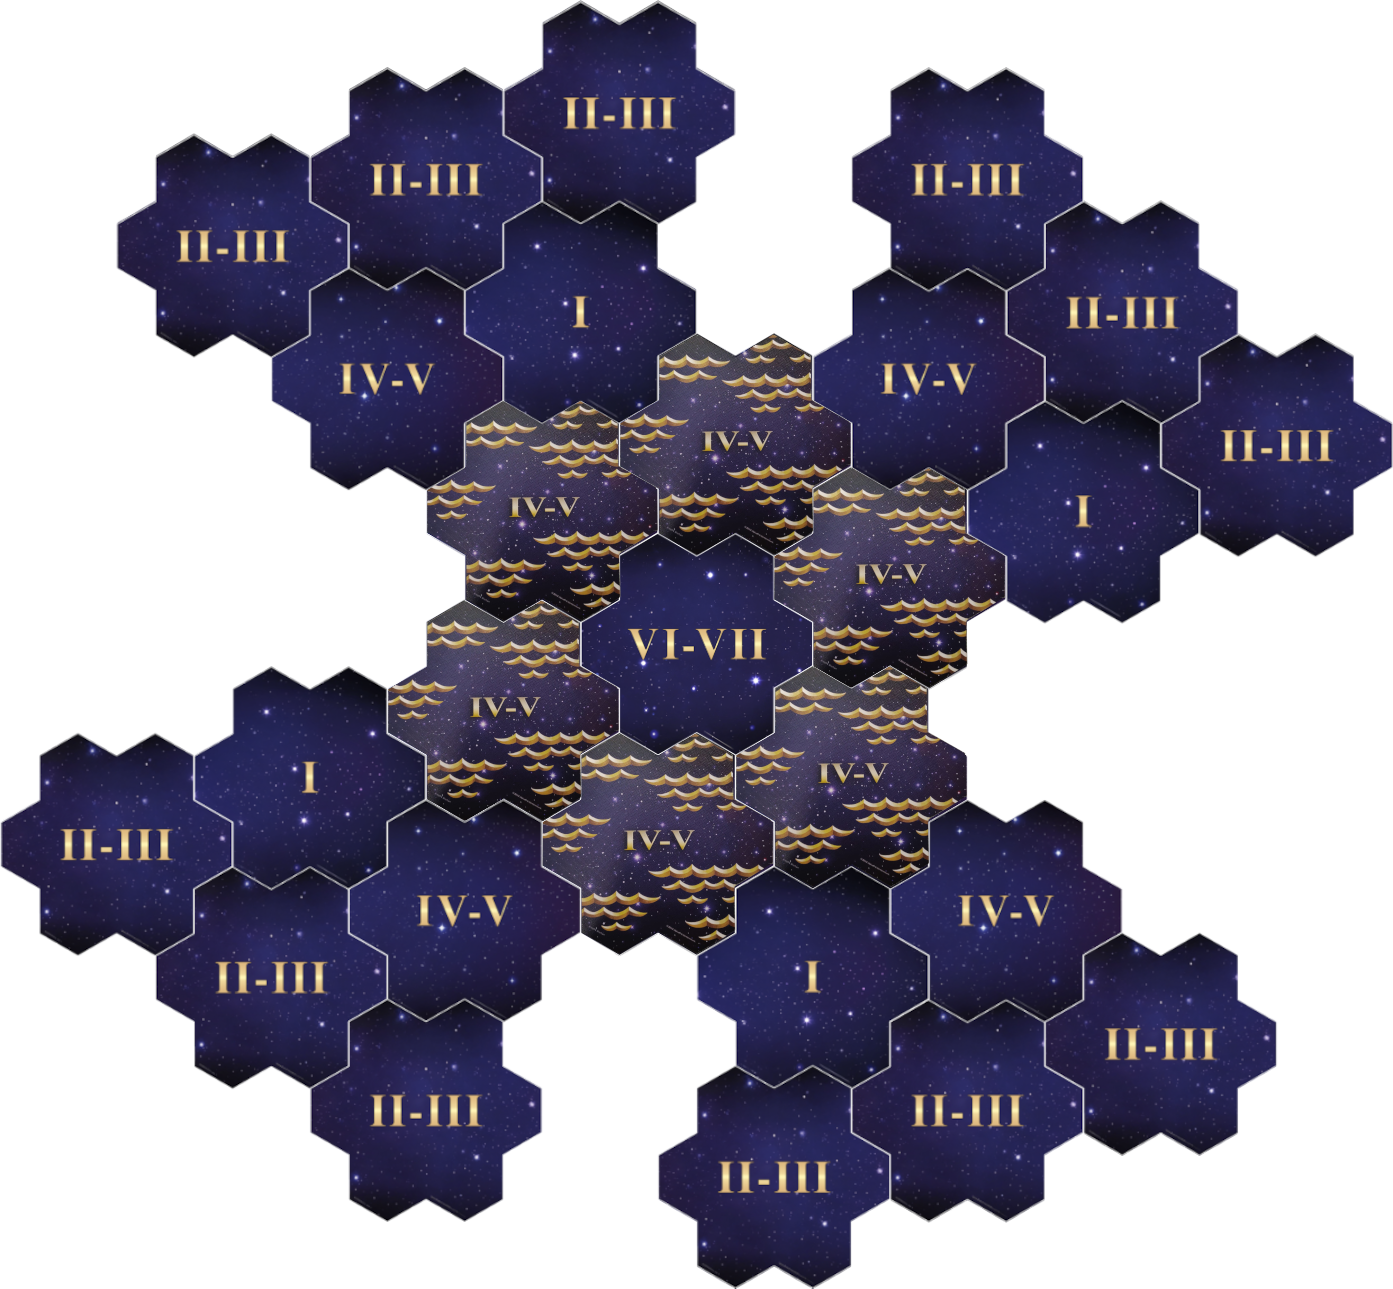
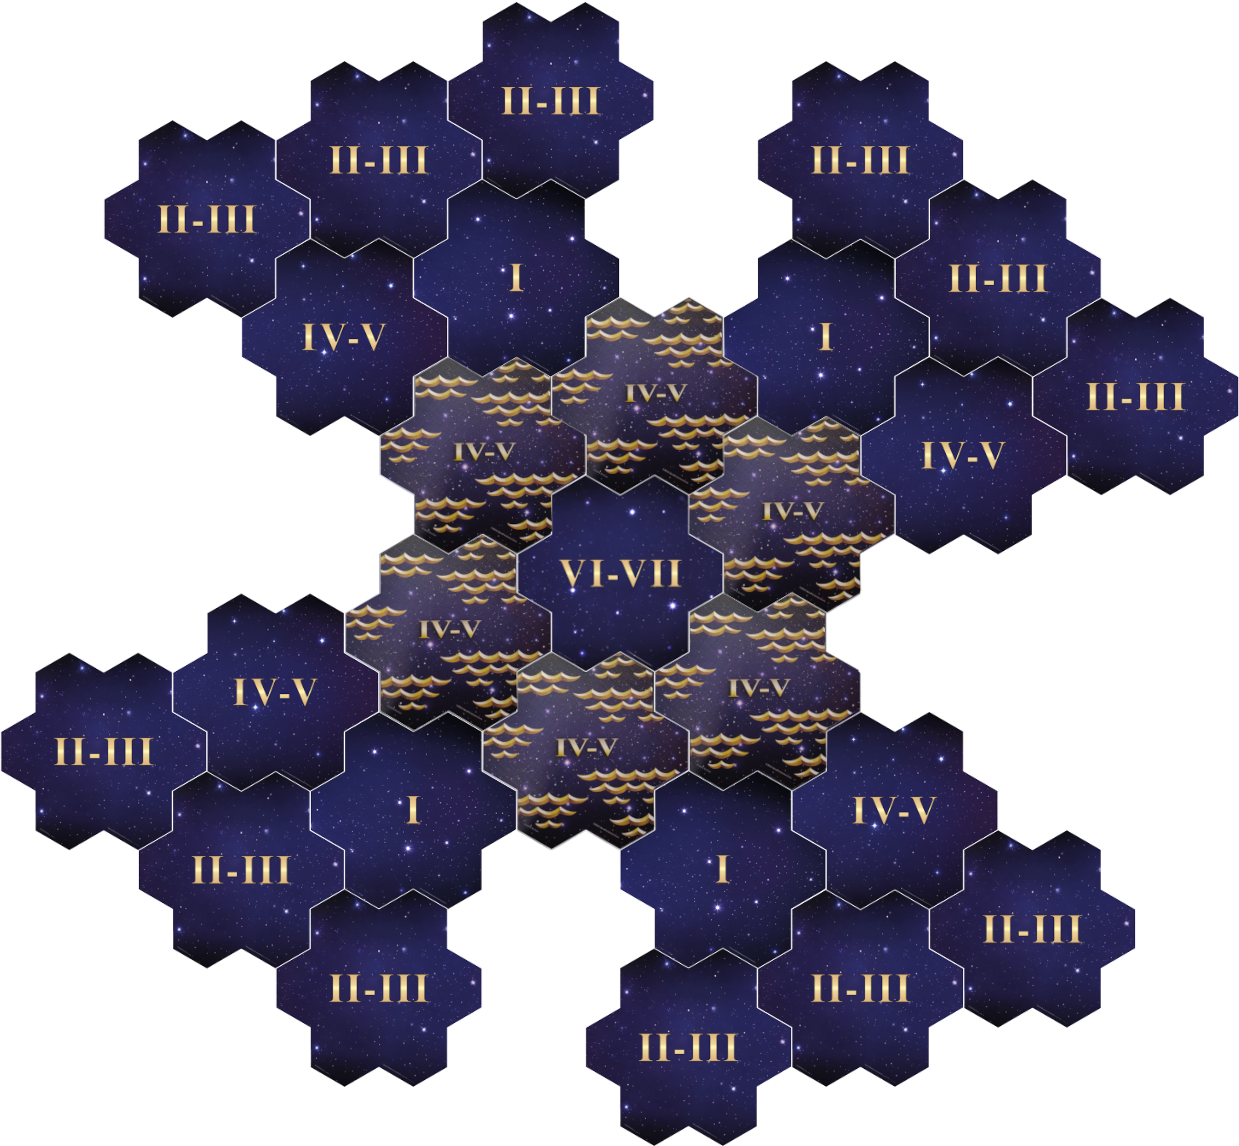
minor fixes

diff --git a/draft-scenarios/clash/rise_from_exile.tex b/draft-scenarios/clash/rise_from_exile.tex
@@ -41,15 +41,10 @@ Take the following Map Tiles and arrange them as shown in the Scenario map layou
 \end{itemize}
 
 \subsection*{\MakeUppercase{Victory Condition}}
-The game ends at the end of the Round when any of the following conditions are met:
-\begin{itemize}
-  \item \textbf{4 players:} One player has defeated every opponent's Main Hero at least once. \textit{That player wins the game immediately.}
-    \item At the end of Round 10.
-\end{itemize}
+Score the most Victory Points (VPs) by the end of the \nth{10} Round. In case of a tie, draw Cards to your \svg{hand} Limit and engage in a final Combat -- the winner is the victor.
 
 \subsection*{\MakeUppercase{Victory Points}}
-If no player has achieved an immediate victory,
-the player with the most Victory Points (VP) wins.
+The player with the most Victory Points (VPs) wins.
 \begin{itemize}
   \item 4 VPs for the first player to flag the Center VII Field.
   \item 2 VPs for each enemy Main Hero defeated.
@@ -64,7 +59,7 @@ the player with the most Victory Points (VP) wins.
 \textbf{\nth{3} Round:}
 \begin{itemize}
   \item Build either \svg{building_special_tent} or \svg{building_special_gears} Building in all uncaptured Starting Towns for free, ignoring any
-prerequisite buildings, and add a ``few'' \svg{bronze} Units to the guards. Prerequisite buildings are not granted and must be built
+prerequisite buildings, and add a ``Few'' \svg{bronze} Units to the guards. Prerequisite buildings are not granted and must be built
 separately to use their effects.
 \end{itemize}
 \textbf{\nth{4} Round:}
@@ -83,7 +78,7 @@ separately to use their effects.
   \item All players start with only their Secondary Hero on an empty Field on a Far Map Tile marked \textbf{``S''} that contains a Settlement.
   \item Until their Starting Town has been captured, Secondary Heroes may gain rewards from each \textbf{Visitable} Field \textbf{twice}.
   \item Once per Round, Secondary Heroes may discover a Map Tile for 0 \svg{movement}.
-  \item Your M\&M Deck acts as your Secondary Hero's Hand.  Do mot draw Cards  at the beginning of your turn. After capturing your Starting Town, use the M\&M Deck normally with your Main Hero.
+  \item Your M\&M Deck acts as your Secondary Hero's Hand.  Do not draw Cards at the beginning of your turn. After capturing your Starting Town, use the M\&M Deck normally with your Main Hero.
   \item After winning a Neutral Combat with your Secondary Hero, you may recruit one of the defeated Neutral Units by paying its recruitment cost.
   \item Players may not use/build Buildings or recruit Units from their Starting Town until they capture it.
   \item Extending Starting Town Combat costs 0 \svg{movement}.
@@ -93,15 +88,15 @@ separately to use their effects.
   \item \textbf{Starting Towns} are guarded by:
   \begin{itemize}
     \item 2 × A ``Pack'' of the cheapest \svg{bronze} Units
-    \item A ``few'' of the most expensive \svg{silver} Units
+    \item A ``Few'' of the most expensive \svg{silver} Units
   \end{itemize}
   \item If a player loses Combat against their Starting Town, any defeated guards do not return.
   \item After capturing the Starting Town:
   \begin{itemize}
-    \item Gain Main Hero. Gain Levels equal to the Round number \textit{(max 4)} and draw Cards to your \svg{hand} Limit.
+    \item Gain your Main Hero. Gain Levels equal to the Round number \textit{(max 4)} and draw Cards to your \svg{hand} Limit.
     \item Gain 10 \svg{gold}, 2 \svg{building_materials}, and 1 \svg{valuables}.
     \item Gain 2 × A ``Pack'' of the cheapest \svg{bronze} Units.
-    \item Place 1 Stack Token on one \svg{bronze} Unit.
+    \item Place 1 Stack Token on any \svg{bronze} Unit.
   \end{itemize}
   \item \textbf{Obelisk:} Gain an Empowered Ability Token \textit{or} Search (5) \svg{artifact}.
   \item \textbf{Sanctuary:} Choose 1 \svg{spellpower} from your Discard Pile. Remove it or return it to your hand.
@@ -149,7 +144,7 @@ Choose one Faction option. Then, you may add any Optional Rules.
 \begin{itemize}
   \item Each player chooses any starting Hero from any Faction. Starting Towns remain random.
   \item After capturing their Starting Town, each player chooses their Main Hero from that Town's Faction.
-  \item Add the Cards gained by your Secondary Hero to your Main Hero's Deck. You may add your starting Hero's Starting Ability Card, Specialty Card or both to your Main Hero's Deck.
+  \item Add the Cards gained by your Secondary Hero to your Main Hero's Deck. You may add your starting Hero's Starting Ability Card, Specialty Card, or both to your Main Hero's Deck.
 \end{itemize}
 
 \columnbreak
@@ -158,7 +153,7 @@ Choose one Faction option. Then, you may add any Optional Rules.
 \begin{itemize}
   \item If a player's starting Hero has a Unit Specialty, that player may choose their starting \svg{bronze} Unit to match that Specialty.
   \item If that Unit is the most expensive \svg{bronze} Unit of its Faction, that player's starting \svg{silver} Unit must cost 10 \svg{gold} or less.
-  \item After choosing your Main Hero, you may add the starting Hero's Starting Ability Card, Specialty Card, or both to your Deck.
+  \item After choosing your Main Hero, you may add your starting Hero's Starting Ability Card, Specialty Card, or both to your Main Hero's Deck.
 \end{itemize}
 
 \textbf{Optional Rule: Main Hero Start}
